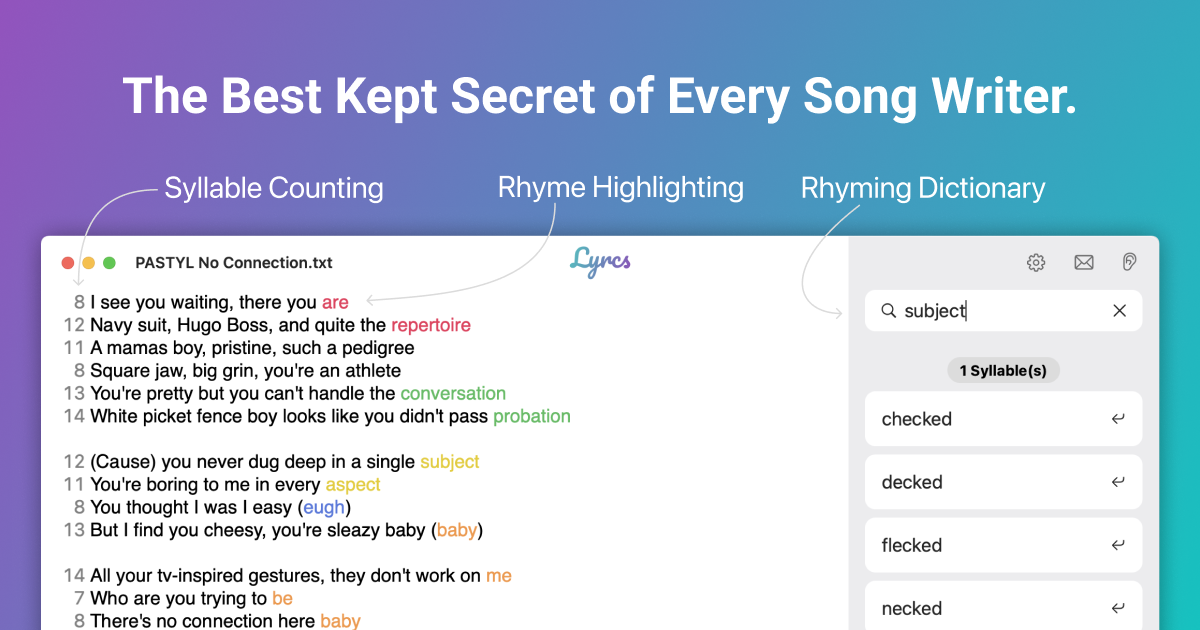
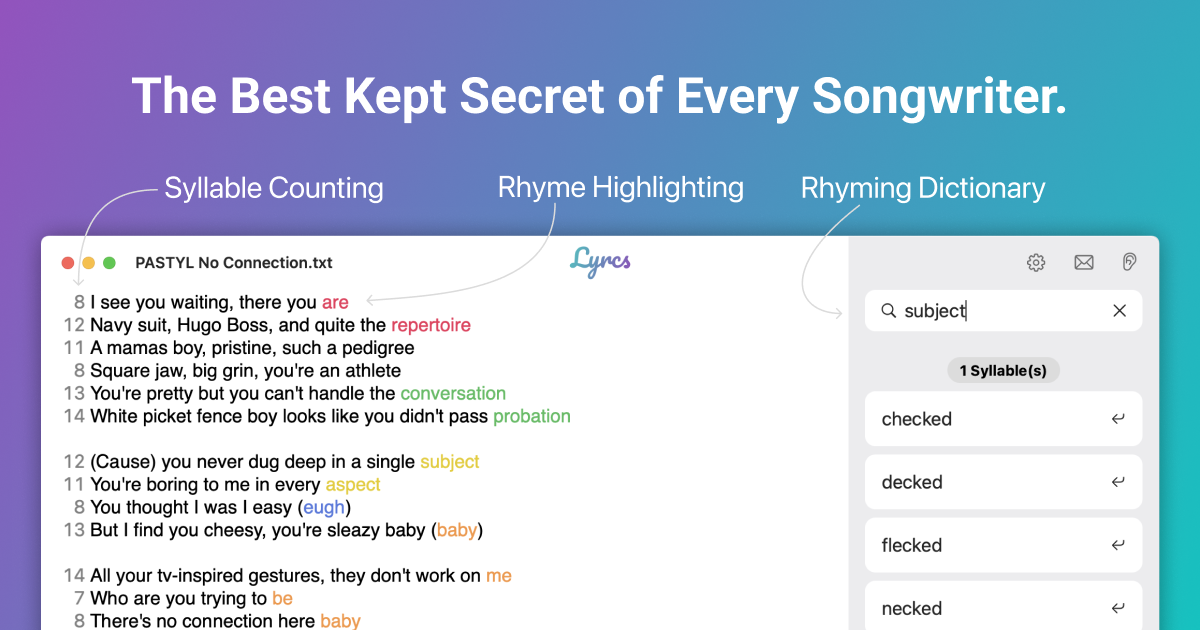
Deploying to gh-pages from @ LyrcsOrg/Website@d6cb28055370fa47f5e272d4bad84ce7e17eed30 🚀

Changed region(s): [[0.0925, 0.1206, 0.8942, 0.2111]]

diff --git a/assets/index.e5c1f528.js b/assets/index.e5c1f528.js
@@ -1,0 +1,1 @@
+import{o as e,c as s,t as i,P as F,a as j,b as A,r as P,d as B,e as m,f as t,g as c,w as f,F as p,h as y,i as b,j as x,T as X,k as J,l as C,m as R,n as S,p as M,q as Z,s as tt,u as et,v as st,x as ot,y as nt,z as at,A as rt,B as it,C as lt,D as ct,E as L,G as dt,H as ht,I as k,J as T,K as ut,L as pt,M as mt}from"./vendor.ebcf2ea9.js";const gt=function(){const d=document.createElement("link").relList;if(d&&d.supports&&d.supports("modulepreload"))return;for(const o of document.querySelectorAll('link[rel="modulepreload"]'))a(o);new MutationObserver(o=>{for(const l of o)if(l.type==="childList")for(const h of l.addedNodes)h.tagName==="LINK"&&h.rel==="modulepreload"&&a(h)}).observe(document,{childList:!0,subtree:!0});function r(o){const l={};return o.integrity&&(l.integrity=o.integrity),o.referrerpolicy&&(l.referrerPolicy=o.referrerpolicy),o.crossorigin==="use-credentials"?l.credentials="include":o.crossorigin==="anonymous"?l.credentials="omit":l.credentials="same-origin",l}function a(o){if(o.ep)return;o.ep=!0;const l=r(o);fetch(o.href,l)}};gt();var g=(u,d)=>{const r=u.__vccOpts||u;for(const[a,o]of d)r[a]=o;return r};const _t={props:{title:String,href:String}},yt=["href"];function xt(u,d,r,a,o,l){return e(),s("a",{href:r.href,target:"about:_blank",class:"inline-flex items-center px-4 py-2 border border-transparent text-base font-medium rounded-md text-app-primary bg-white hover:bg-gray-200"},i(r.title),9,yt)}var ft=g(_t,[["render",xt]]),I="/assets/logo.aff1c9ba.svg";const vt={inject:["konstantAppStoreURL"],components:{Popover:F,PopoverButton:j,PopoverPanel:A,MenuIcon:P,XIcon:B,ButtonPrimary:ft},data(){return{navigation:[],cta:"Download"}}},bt={class:"bg-gray-50"},$t={class:"relative"},wt=t("div",{class:"absolute inset-y-0 h-full w-full bg-gradient-to-r from-app-primary to-app-secondary","aria-hidden":"true"},null,-1),kt={class:"relative py-6"},St={class:"max-w-7xl mx-auto px-4 sm:px-6"},Lt={class:"relative flex items-center justify-between sm:h-10 md:justify-center","aria-label":"Global"},Ct={class:"flex items-center flex-1 md:absolute md:inset-y-0 md:left-0"},Mt={class:"flex items-center justify-between w-full md:w-auto"},Pt=t("a",{href:"#"},[t("span",{class:"sr-only"},"Lyrcs"),t("img",{class:"h-8 w-auto sm:h-10",src:I,alt:"Logo"})],-1),Rt={class:"-mr-2 flex items-center md:hidden"},Tt=t("span",{class:"sr-only"},"Open main menu",-1),Ft={class:"hidden md:flex md:space-x-10"},jt={class:"hidden md:absolute md:flex md:items-center md:justify-end md:inset-y-0 md:right-0"},At={class:"rounded-lg shadow-md bg-white ring-1 ring-black ring-opacity-5 overflow-hidden"},Bt={class:"px-5 pt-4 flex items-center justify-between"},It=t("div",null,[t("img",{class:"h-8 w-auto",src:I,alt:"Logo"})],-1),Nt={class:"-mr-2"},Dt=t("span",{class:"sr-only"},"Close main menu",-1),qt={class:"px-2 pt-2 pb-3 space-y-1"},Kt=["href"];function zt(u,d,r,a,o,l){const h=m("MenuIcon"),n=m("PopoverButton"),v=m("router-link"),G=m("ButtonPrimary"),Y=m("XIcon"),Q=m("PopoverPanel"),V=m("Popover");return e(),s("div",bt,[t("div",$t,[wt,t("div",kt,[c(V,null,{default:f(()=>[t("div",St,[t("nav",Lt,[t("div",Ct,[t("div",Mt,[Pt,t("div",Rt,[c(n,{class:"bg-gray-50 rounded-md p-2 inline-flex items-center justify-center text-gray-400 hover:text-gray-500 hover:bg-gray-100 focus:outline-none focus:ring-2 focus:ring-inset focus:ring-indigo-500"},{default:f(()=>[Tt,c(h,{class:"h-6 w-6","aria-hidden":"true"})]),_:1})])])]),t("div",Ft,[(e(!0),s(p,null,y(o.navigation,$=>(e(),b(v,{key:$.name,to:$.href,class:"font-medium text-gray-100 hover:text-gray-300"},{default:f(()=>[x(i($.name),1)]),_:2},1032,["to"]))),128))]),t("div",jt,[c(G,{title:"Download",href:this.konstantAppStoreURL},null,8,["href"])])])]),c(X,{"enter-active-class":"duration-150 ease-out","enter-from-class":"opacity-0 scale-95","enter-to-class":"opacity-100 scale-100","leave-active-class":"duration-100 ease-in","leave-from-class":"opacity-100 scale-100","leave-to-class":"opacity-0 scale-95"},{default:f(()=>[c(Q,{focus:"",class:"absolute z-10 top-0 inset-x-0 p-2 transition transform origin-top-right md:hidden"},{default:f(()=>[t("div",At,[t("div",Bt,[It,t("div",Nt,[c(n,{class:"bg-white rounded-md p-2 inline-flex items-center justify-center text-gray-400 hover:text-gray-500 hover:bg-gray-100 focus:outline-none focus:ring-2 focus:ring-inset focus:ring-indigo-500"},{default:f(()=>[Dt,c(Y,{class:"h-6 w-6","aria-hidden":"true"})]),_:1})])]),t("div",qt,[(e(!0),s(p,null,y(o.navigation,$=>(e(),b(v,{key:$.name,to:$.href,class:"block px-3 py-2 rounded-md text-base font-medium text-gray-700 hover:text-gray-900 hover:bg-gray-50"},{default:f(()=>[x(i($.name),1)]),_:2},1032,["to"]))),128))]),t("a",{href:this.konstantAppStoreURL,target:"about:_blank",class:"block w-full px-5 py-3 text-center font-medium text-indigo-600 bg-gray-50 hover:bg-gray-100 hover:text-indigo-700"},i(o.cta),9,Kt)])]),_:1})]),_:1})]),_:1})])])])}var Ot=g(vt,[["render",zt]]);const Ht={inject:["konstantRouteContact","konstantNavigationSavings","konstantRouteKeyboardShortcuts","konstantRouteFAQ","konstantRoutePrivacy","konstantRoutePressKit"],data(){return{navigation:{research:[{name:"Savings",href:this.konstantNavigationSavings}],support:[{name:"FAQ",href:this.konstantRouteFAQ},{name:"Keyboard Shortcuts",href:this.konstantRouteKeyboardShortcuts},{name:"Contact Us",href:this.konstantRouteContact}],marketing:[{name:"Press Kit",href:this.konstantRoutePressKit}],legal:[{name:"Privacy",href:this.konstantRoutePrivacy}],social:[{name:"Twitter",href:"https://twitter.com/LyrcsApp",icon:J({render:()=>R("svg",{fill:"currentColor",viewBox:"0 0 24 24"},[R("path",{d:"M8.29 20.251c7.547 0 11.675-6.253 11.675-11.675 0-.178 0-.355-.012-.53A8.348 8.348 0 0022 5.92a8.19 8.19 0 01-2.357.646 4.118 4.118 0 001.804-2.27 8.224 8.224 0 01-2.605.996 4.107 4.107 0 00-6.993 3.743 11.65 11.65 0 01-8.457-4.287 4.106 4.106 0 001.27 5.477A4.072 4.072 0 012.8 9.713v.052a4.105 4.105 0 003.292 4.022 4.095 4.095 0 01-1.853.07 4.108 4.108 0 003.834 2.85A8.233 8.233 0 012 18.407a11.616 11.616 0 006.29 1.84"})])})}]}}}},Wt={class:"bg-gray-800 mt-12","aria-labelledby":"footer-heading"},Et=t("h2",{id:"footer-heading",class:"sr-only"},"Footer",-1),Ut={class:"max-w-7xl mx-auto py-12 px-4 sm:px-6 lg:py-16 lg:px-8"},Gt={class:"xl:grid xl:grid-cols-3 xl:gap-8"},Yt={class:"grid grid-cols-2 gap-8 xl:col-span-2"},Qt={class:"md:grid md:grid-cols-2 md:gap-8"},Vt=t("h3",{class:"text-sm font-semibold text-gray-400 tracking-wider uppercase"},"Research",-1),Xt={role:"list",class:"mt-4 space-y-4"},Jt={class:"mt-12 md:mt-0"},Zt=t("h3",{class:"text-sm font-semibold text-gray-400 tracking-wider uppercase"},"Support",-1),te={role:"list",class:"mt-4 space-y-4"},ee={class:"md:grid md:grid-cols-2 md:gap-8"},se=t("h3",{class:"text-sm font-semibold text-gray-400 tracking-wider uppercase"},"Marketing",-1),oe={role:"list",class:"mt-4 space-y-4"},ne={class:"mt-12 md:mt-0"},ae=t("h3",{class:"text-sm font-semibold text-gray-400 tracking-wider uppercase"},"Legal",-1),re={role:"list",class:"mt-4 space-y-4"},ie={class:"mt-8 xl:mt-0"},le=t("h3",{class:"text-sm font-semibold text-gray-400 tracking-wider uppercase"},"Stay up to date",-1),ce=t("p",{class:"my-4 text-base text-gray-300"},"\u{1F48C} Get notified about new features and updates.",-1),de={class:"mt-8 border-t border-gray-700 pt-8 md:flex md:items-center md:justify-between"},he={class:"flex space-x-6 md:order-2"},ue=["href"],pe={class:"sr-only"},me={class:"mt-8 text-base text-gray-400 md:mt-0 md:order-1"};function ge(u,d,r,a,o,l){const h=m("router-link");return e(),s("footer",Wt,[Et,t("div",Ut,[t("div",Gt,[t("div",Yt,[t("div",Qt,[t("div",null,[Vt,t("ul",Xt,[(e(!0),s(p,null,y(o.navigation.research,n=>(e(),s("li",{key:n.name},[c(h,{to:n.href,class:"text-base text-gray-300 hover:text-white"},{default:f(()=>[x(i(n.name),1)]),_:2},1032,["to"])]))),128))])]),t("div",Jt,[Zt,t("ul",te,[(e(!0),s(p,null,y(o.navigation.support,n=>(e(),s("li",{key:n.name},[c(h,{to:n.href,class:"text-base text-gray-300 hover:text-white"},{default:f(()=>[x(i(n.name),1)]),_:2},1032,["to"])]))),128))])])]),t("div",ee,[t("div",null,[se,t("ul",oe,[(e(!0),s(p,null,y(o.navigation.marketing,n=>(e(),s("li",{key:n.name},[c(h,{to:n.href,class:"text-base text-gray-300 hover:text-white"},{default:f(()=>[x(i(n.name),1)]),_:2},1032,["to"])]))),128))])]),t("div",ne,[ae,t("ul",re,[(e(!0),s(p,null,y(o.navigation.legal,n=>(e(),s("li",{key:n.name},[c(h,{to:n.href,class:"text-base text-gray-300 hover:text-white"},{default:f(()=>[x(i(n.name),1)]),_:2},1032,["to"])]))),128))])])])]),t("div",ie,[le,ce,(e(),b(C("script"),{async:"","data-uid":"9f57de5059",src:"https://colossal-knitter-8833.ck.page/9f57de5059/index.js"}))])]),t("div",de,[t("div",he,[(e(!0),s(p,null,y(o.navigation.social,n=>(e(),s("a",{key:n.name,href:n.href,class:"text-gray-400 hover:text-gray-300"},[t("span",pe,i(n.name),1),(e(),b(C(n.icon),{class:"h-6 w-6","aria-hidden":"true"}))],8,ue))),128))]),t("p",me,"\xA9 "+i(new Date().getFullYear())+" Lyrcs. All rights reserved.",1)])])])}var _e=g(Ht,[["render",ge]]);const ye={components:{Navigation:Ot,Footer:_e},watch:{$route:{immediate:!0,handler(u,d){document.title=u.meta.title+" - Lyrcs"||"Lyrcs"}}},setup(){return{}}},xe={class:"flex flex-col h-screen"},fe={class:"flex-grow"};function ve(u,d,r,a,o,l){const h=m("Navigation"),n=m("router-view"),v=m("Footer");return e(),s("div",xe,[c(h),t("div",fe,[c(n)]),c(v)])}var be=g(ye,[["render",ve]]);var N="/assets/hero.6c31db40.png",$e="/assets/live.d40c6c98.svg",we="/assets/logic.24c8d676.svg",ke="/assets/tools.ef0f673c.svg",Se="/assets/fl.b18e17b7.svg",Le="/assets/garage.ebbdac29.svg";const Ce={title:"The Best Kept Secret<br>of Every Songwriter",subtitle:"Lyrcs is the single tool that empowers you to do what you do best - tell stories through music. Made for songwriters, by songwriters.",cta:"Download",footnote:"Work side by side with all your favorite tools and more"},Me={components:{Popover:F,PopoverButton:j,PopoverPanel:A,MenuIcon:P,XIcon:B},setup(){return{header:Ce}}},Pe={class:"bg-gray-50"},Re={class:"relative overflow-hidden"},Te=t("div",{class:"absolute inset-y-0 h-full w-full bg-gradient-to-r from-app-primary to-app-secondary","aria-hidden":"true"},null,-1),Fe={class:"relative pb-16 sm:pb-24"},je={class:"mt-16 mx-auto max-w-7xl px-4 sm:mt-24 sm:px-6"},Ae={class:"text-center"},Be={class:"text-4xl tracking-tight font-extrabold text-white sm:text-5xl md:text-6xl"},Ie=["innerHTML"],Ne={class:"mt-3 max-w-md mx-auto text-base text-white sm:text-lg md:mt-5 md:text-xl md:max-w-3xl"},De=S('<div class="relative"><div class="absolute inset-0 flex flex-col" aria-hidden="true"><div class="flex-1"></div><div class="flex-1 w-full bg-gray-800"></div></div><div class="max-w-7xl mx-auto px-4 sm:px-6"><img class="relative rounded-lg" src="'+N+'" alt="App screenshot"></div></div>',1),qe={class:"bg-gray-800"},Ke={class:"max-w-7xl mx-auto py-16 px-4 sm:py-24 sm:px-6 lg:px-8"},ze={class:"text-center text-gray-400 text-sm font-semibold uppercase tracking-wide"},Oe=S('<div class="mt-8 grid grid-cols-2 gap-8 md:grid-cols-6 lg:grid-cols-5 text-gray-400"><figure class="col-span-1 flex justify-center md:col-span-2 lg:col-span-1 items-center space-x-2"><img class="h-16" src="'+$e+'" alt="Ableton Live"><figcaption>Ableton Live</figcaption></figure><figure class="col-span-1 flex justify-center md:col-span-2 lg:col-span-1 items-center space-x-2"><img class="h-16" src="'+we+'" alt="Logic Pro"><figcaption>Logic Pro</figcaption></figure><figure class="col-span-1 flex justify-center md:col-span-2 lg:col-span-1 items-center space-x-2"><img class="h-16" src="'+ke+'" alt="Pro Tools"><figcaption>Pro Tools</figcaption></figure><figure class="col-span-1 flex justify-center md:col-span-3 lg:col-span-1 items-center space-x-2"><img class="h-16" src="'+Se+'" alt="FL Studio"><figcaption>FL Studio</figcaption></figure><figure class="col-span-2 flex justify-center md:col-span-3 lg:col-span-1 items-center space-x-2"><img class="h-16" src="'+Le+'" alt="GarageBand"><figcaption>GarageBand</figcaption></figure></div>',1);function He(u,d,r,a,o,l){return e(),s("div",Pe,[t("div",Re,[Te,t("div",Fe,[t("div",je,[t("div",Ae,[t("h1",Be,[t("span",{class:"block",innerHTML:a.header.title},null,8,Ie)]),t("p",Ne,i(a.header.subtitle),1)])])]),De]),t("div",qe,[t("div",Ke,[t("h2",ze,i(a.header.footnote),1),Oe])])])}var We=g(Me,[["render",He]]),Ee="/assets/rhymes.caf8c5fc.png",Ue="/assets/syllables.59065f74.png",Ge="/assets/design.fd892fbf.png",Ye="/assets/spelling.3ed68d51.png",Qe="/assets/highlight.24bedcda.png";const Ve={title:"Why You'll Love Lyrcs",subtitle:"All the essential tools you need to write the perfect story."},Xe=[{title:"Rhyming Dictionary",subtitle:"Gone are the days of opening your browser to check rhymezone.",image:Ee,details:[{name:"No Wait Times",description:"Results are given in an instant.",icon:Z},{name:"Grouping",description:"Group the results how you like them; by syllables, letters or none at all.",icon:P},{name:"Insert or Copy",description:"Insert results directly at your cursor or copy and paste to the perfect spot.",icon:tt}]},{title:"Syllable Counting",subtitle:"Looking at your fingers to count syllables is now a thing of the past.",image:Ue,details:[{name:"Per Line",description:"View the exact number of syllables per line, making it easy to pair up verses.",icon:et},{name:"Per Selection",description:"Right click on selected text to view its syllable count.",icon:st},{name:"Override",description:"If you pronounce a word differently or Lyrcs got it wrong (please let us know), right click to override the count.",icon:ot}]},{title:"Rhyme Highlighting",subtitle:"No need to keep track of which words rhyme at the end of a line, Lyrcs will do that for you.",image:Qe,details:[{name:"Real-time",description:"No pushing a button to turn it on, rhymes are calculated blazingly fast in the background as you type.",icon:nt},{name:"Color Blindness",description:"The 20 most distinct colors are used to improve accessibility. If you have any trouble consider turning on macOS Color Filters.",icon:at},{name:"Identical Words",description:"Sometimes when life gives you orange, you just have to orange again. Toggle the option to highlight identical words.",icon:rt}]},{title:"Fine Design",subtitle:"Working late at night? Eyesight isn't what it used to be? Wish you could work without distractions? You're in good hands.",image:Ge,details:[{name:"Minimalistic UI",description:"Lyrcs is designed to have as little distractions as possible, leaving you to focus on your content.",icon:it},{name:"Dark Mode Support",description:"Get blinded by the brilliant work you create, not by white pixels.",icon:lt},{name:"Font Adjustable",description:"Leave your glasses at home grandma, use CMD -, CMD + or CMD 0 to adjust font.",icon:ct}]},{title:"Native macOS",subtitle:"Everything you come to expect from a native macOS app is included.",image:Ye,details:[{name:"Spelling and Grammar",description:"We didn't win any spelling bees as kids and if you didn't either, Lyrcs will check it all for you.",icon:L},{name:"Undo Redo",description:"What kind of writing tool would Lyrcs be without this life saving feature?",icon:dt},{name:"Sharing",description:"Lyrics finished but needing to run it past the partner? File > Share",icon:ht}]}],Je={setup(){return{header:Ve,features:Xe}}},Ze={class:"py-16 bg-white overflow-hidden lg:py-24"},ts={class:"relative max-w-xl mx-auto px-4 sm:px-6 lg:px-8 lg:max-w-7xl"},es={class:"relative"},ss={class:"text-center text-3xl leading-8 font-extrabold tracking-tight text-gray-900 sm:text-4xl"},os={class:"mt-4 max-w-3xl mx-auto text-center text-xl text-gray-500"},ns={class:"lg:grid lg:grid-flow-row-dense lg:grid-cols-2 lg:gap-8 lg:items-center"},as={class:"text-2xl font-extrabold text-gray-900 tracking-tight sm:text-3xl"},rs={class:"mt-3 text-lg text-gray-500"},is={class:"mt-10 space-y-10"},ls={class:"absolute flex items-center justify-center h-10 w-10 rounded-md bg-app-primary text-white"},cs={class:"ml-16 text-lg leading-6 font-medium text-gray-900"},ds={class:"mt-2 ml-16 text-base text-gray-500"},hs=["src"];function us(u,d,r,a,o,l){return e(),s("div",Ze,[t("div",ts,[t("div",es,[t("h2",ss,i(a.header.title),1),t("p",os,i(a.header.subtitle),1)]),(e(!0),s(p,null,y(a.features,(h,n)=>(e(),s("div",{key:h.title,class:"relative mt-12 sm:mt-16 lg:mt-24"},[t("div",ns,[t("div",{class:M({"lg:col-start-1":n%2!==0,"lg:col-start-2":n%2===0})},[t("h3",as,i(h.title),1),t("p",rs,i(h.subtitle),1),t("dl",is,[(e(!0),s(p,null,y(h.details,v=>(e(),s("div",{key:v.name,class:"relative"},[t("dt",null,[t("div",ls,[(e(),b(C(v.icon),{class:"h-6 w-6","aria-hidden":"true"}))]),t("p",cs,i(v.name),1)]),t("dd",ds,i(v.description),1)]))),128))])],2),t("div",{class:M(["mt-10 -mx-4 relative lg:mt-0",{"lg:col-start-1":n%2===0,"lg:col-start-2":n%2!==0}])},[t("img",{class:"relative mx-auto",width:"490",src:h.image,alt:""},null,8,hs)],2)])]))),128))])])}var ps=g(Je,[["render",us]]);const ms={title:"If That Wasn't Enough",subtitle:"Here are a few more things we think you'll love."},gs={inject:["konstantRouteKeyboardShortcuts"],components:{CheckIcon:L},data(){return{header:ms,features:[{name:"Keyboard Shortcuts",description:`View them <a href='#${this.konstantRouteKeyboardShortcuts}' class='underline'>here</a>.`},{name:"Ad-Free",description:"You won't find a single one."},{name:"Plain Text Files",description:"No sneaky proprietary files to lock you in."},{name:"Constant Updates",description:"Lyrcs is always receiving new features, enhancements or fixes."},{name:"Work Offline",description:"No need to be connected to the internet to use."},{name:"Appearance Override",description:"Choose between dark or light mode, or match your system."},{name:"Distractionless Options",description:"When you want to really focus, hide the syllable and rhyme panels."},{name:"Font Choices",description:"Prefer to write in Times New Roman? Lyrcs won't hold you back."}]}}},_s={class:"bg-white"},ys={class:"max-w-7xl mx-auto py-16 px-4 sm:px-6 lg:py-24 lg:px-8"},xs={class:"max-w-3xl mx-auto text-center"},fs={class:"text-3xl font-extrabold text-gray-900"},vs={class:"mt-4 text-lg text-gray-500"},bs={class:"mt-12 space-y-10 sm:space-y-0 sm:grid sm:grid-cols-2 sm:gap-x-6 sm:gap-y-12 lg:grid-cols-4 lg:gap-x-8"},$s={class:"ml-9 text-lg leading-6 font-medium text-gray-900"},ws=["innerHTML"];function ks(u,d,r,a,o,l){const h=m("CheckIcon");return e(),s("div",_s,[t("div",ys,[t("div",xs,[t("h2",fs,i(o.header.title),1),t("p",vs,i(o.header.subtitle),1)]),t("dl",bs,[(e(!0),s(p,null,y(o.features,n=>(e(),s("div",{key:n.name,class:"relative"},[t("dt",null,[c(h,{class:"absolute h-6 w-6 text-green-500","aria-hidden":"true"}),t("p",$s,i(n.name),1)]),t("dd",{class:"mt-2 ml-9 text-base text-gray-500",innerHTML:n.description},null,8,ws)]))),128))])])])}var Ss=g(gs,[["render",ks]]);const Ls={inject:["konstantAppStoreURL"]},Cs={class:"bg-white"},Ms={class:"max-w-7xl mx-auto py-16 px-4 sm:px-6 lg:px-8"},Ps={class:"bg-gradient-to-r from-app-primary to-app-secondary rounded-lg shadow-xl overflow-hidden lg:grid lg:grid-cols-2 lg:gap-4"},Rs={class:"pt-10 pb-12 px-6 sm:pt-16 sm:px-16 lg:py-16 lg:pr-0 xl:py-20 xl:px-20"},Ts={class:"lg:self-center"},Fs=t("h2",{class:"text-3xl font-extrabold text-white sm:text-4xl"},[t("span",{class:"block"},"Like what you see?"),t("span",{class:"block"},"Download Lyrcs today!")],-1),js=t("p",{class:"mt-4 text-lg leading-6 text-gray-100"},"If you're not 100% satisfied, we don't offer refunds because Lyrcs is free. What have you got to lose? Certainly not money.",-1),As=["href"],Bs=t("div",{class:"-mt-6 aspect-w-5 aspect-h-3 md:aspect-w-2 md:aspect-h-1"},[t("img",{class:"transform translate-x-6 translate-y-6 rounded-md object-cover object-left-top sm:translate-x-16 lg:translate-y-20",src:N,alt:"App screenshot"})],-1);function Is(u,d,r,a,o,l){return e(),s("div",Cs,[t("div",Ms,[t("div",Ps,[t("div",Rs,[t("div",Ts,[Fs,js,t("a",{href:this.konstantAppStoreURL,target:"about:_blank",class:"mt-8 bg-white border border-transparent rounded-md shadow px-5 py-3 inline-flex items-center text-base font-medium text-app-primary hover:bg-gray-200"},"Download",8,As)])]),Bs])])])}var D=g(Ls,[["render",Is]]);const Ns={},Ds={class:"bg-white"},qs=S('<div class="max-w-7xl mx-auto py-16 px-4 sm:py-24 sm:px-6 lg:px-8"><div class="text-center"><h2 class="text-base font-semibold text-indigo-600 tracking-wide uppercase">Coming Soon</h2><p class="mt-1 text-4xl font-extrabold text-gray-900 sm:text-5xl sm:tracking-tight lg:text-6xl">Mobile Apps.</p><p class="max-w-xl mt-5 mx-auto text-xl text-gray-500">Write your lyrics on the go.</p></div></div>',1),Ks=[qs];function zs(u,d){return e(),s("div",Ds,Ks)}var Os=g(Ns,[["render",zs]]);const Hs={inject:["konstantStatsMinutes","konstantStatsMemory","konstantStatsRelationships"],props:{title:String,subtitle:String}},Ws={class:"bg-white pt-12 sm:pt-16"},Es={class:"max-w-7xl mx-auto px-4 sm:px-6 lg:px-8"},Us={class:"max-w-4xl mx-auto text-center"},Gs=["innerHTML"],Ys=["innerHTML"],Qs={class:"mt-10 pb-12 bg-white sm:pb-16"},Vs={class:"relative"},Xs=t("div",{class:"absolute inset-0 h-1/2 bg-white"},null,-1),Js={class:"relative max-w-7xl mx-auto px-4 sm:px-6 lg:px-8"},Zs={class:"max-w-4xl mx-auto"},to={class:"rounded-lg bg-white drop-shadow-[0_0_8px_rgba(0,0,0,0.25)] sm:grid sm:grid-cols-3"},eo={class:"flex flex-col border-b border-gray-100 p-6 text-center sm:border-0 sm:border-r"},so=t("dt",{class:"order-2 mt-2 text-lg leading-6 font-medium text-gray-500"},"Minutes",-1),oo={class:"order-1 text-5xl font-extrabold text-indigo-600"},no={class:"flex flex-col border-t border-b border-gray-100 p-6 text-center sm:border-0 sm:border-l sm:border-r"},ao=t("dt",{class:"order-2 mt-2 text-lg leading-6 font-medium text-gray-500"},"Memory",-1),ro={class:"order-1 text-5xl font-extrabold text-indigo-600"},io={class:"flex flex-col border-t border-gray-100 p-6 text-center sm:border-0 sm:border-l"},lo=t("dt",{class:"order-2 mt-2 text-lg leading-6 font-medium text-gray-500"},"Relationships",-1),co={class:"order-1 text-5xl font-extrabold text-indigo-600"};function ho(u,d,r,a,o,l){return e(),s("div",Ws,[t("div",Es,[t("div",Us,[t("h2",{class:"text-3xl font-extrabold text-gray-900 sm:text-4xl",innerHTML:r.title},null,8,Gs),t("p",{class:"mt-3 text-xl text-gray-500 sm:mt-4",innerHTML:r.subtitle},null,8,Ys)])]),t("div",Qs,[t("div",Vs,[Xs,t("div",Js,[t("div",Zs,[t("dl",to,[t("div",eo,[so,t("dd",oo,i(l.konstantStatsMinutes),1)]),t("div",no,[ao,t("dd",ro,i(l.konstantStatsMemory),1)]),t("div",io,[lo,t("dd",co,i(l.konstantStatsRelationships),1)])])])])])])])}var uo=g(Hs,[["render",ho]]);const po={setup(u){return(d,r)=>(e(),s(p,null,[c(We),c(ps),c(uo,{title:"What could Lyrcs save you per album?",subtitle:"<a href='#/savings' class='underline'>Check out how we came up with the figures</a>."}),c(Ss),c(Os),c(D)],64))}},mo={props:{title:String}},go={class:"mb-12 bg-gradient-to-r from-app-primary to-app-secondary"},_o={class:"max-w-7xl mx-auto py-12 px-4 sm:py-16 sm:px-6 lg:px-8"},yo={class:"max-w-3xl mx-auto divide-y-2 divide-gray-200"},xo={class:"text-center text-4xl font-extrabold text-white sm:text-5xl"};function fo(u,d,r,a,o,l){return e(),s("div",go,[t("div",_o,[t("div",yo,[t("h2",xo,i(r.title),1)])])])}var w=g(mo,[["render",fo]]);const vo={inject:["konstantStatsMinutes","konstantStatsMemory","konstantStatsRelationships"]},bo={class:"bg-white pt-12 sm:pt-16"},$o={class:"pb-12 bg-white sm:pb-16"},wo={class:"relative"},ko=t("div",{class:"absolute inset-0 h-1/2 bg-white"},null,-1),So={class:"relative max-w-7xl mx-auto px-4 sm:px-6 lg:px-8"},Lo={class:"max-w-4xl mx-auto"},Co={class:"rounded-lg bg-white drop-shadow-[0_0_8px_rgba(0,0,0,0.25)] sm:grid sm:grid-cols-3"},Mo={class:"flex flex-col border-b border-gray-100 p-6 text-center sm:border-0 sm:border-r"},Po=t("dt",{class:"order-2 mt-2 text-lg leading-6 font-medium text-gray-500"},"Minutes",-1),Ro={class:"order-1 text-5xl font-extrabold text-indigo-600"},To={class:"flex flex-col border-t border-b border-gray-100 p-6 text-center sm:border-0 sm:border-l sm:border-r"},Fo=t("dt",{class:"order-2 mt-2 text-lg leading-6 font-medium text-gray-500"},"Memory",-1),jo={class:"order-1 text-5xl font-extrabold text-indigo-600"},Ao={class:"flex flex-col border-t border-gray-100 p-6 text-center sm:border-0 sm:border-l"},Bo=t("dt",{class:"order-2 mt-2 text-lg leading-6 font-medium text-gray-500"},"Relationships",-1),Io={class:"order-1 text-5xl font-extrabold text-indigo-600"};function No(u,d,r,a,o,l){return e(),s("div",bo,[t("div",$o,[t("div",wo,[ko,t("div",So,[t("div",Lo,[t("dl",Co,[t("div",Mo,[Po,t("dd",Ro,i(l.konstantStatsMinutes),1)]),t("div",To,[Fo,t("dd",jo,i(l.konstantStatsMemory),1)]),t("div",Ao,[Bo,t("dd",Io,i(l.konstantStatsRelationships),1)])])])])])])])}var Do=g(vo,[["render",No]]);const qo={class:"relative pb-16 bg-white overflow-hidden"},Ko={class:"max-w-7xl mx-auto px-4 sm:px-6 lg:px-8"},zo={class:"mt-6 prose prose-indigo prose-lg text-gray-500 mx-auto"},Oo=S('<p> Every song is different so every usage will vary but here&#39;s a common scenario that leads to the results above. We&#39;ll be looking at the song <a href="https://open.spotify.com/track/4CNilDDYSlQ5KMP4OK8XmT?si=eeab09c134df4157" class="underline">No Connection - PASTYL</a> and extrapolating it to an album of 12 songs. It&#39;s your typical pop banger with an ABC-ABC-D-C structure coming in at 4:03 minutes and 355 words. </p><p>No Connection contains the following sets of 11 near or perfect rhymes.</p><div class="columns-2"><ul><li class="mt-0">subject, aspect</li><li>easy, baby</li><li>me, be, baby</li><li>me, see</li><li>clear, here</li><li>are, guitar</li><li>easy, baby</li><li>hard, car</li></ul></div><h2>Minutes</h2><p>When coming up with rhymes we&#39;ll often use online rhyming dictionaries and when counting syllables we&#39;ll often use our fingers. The problem with these approaches is not only do they take you away from your work but they take time to do. Since not every rhyme search and syllable count takes the same amount of time we&#39;ll need to come up with some values to use.</p><p>We&#39;ve assumed the following:</p><ul><li><strong>10 seconds</strong> for the act of opening a browser and navigating to a rhyme dictionary </li><li><strong>2 seconds</strong> waiting for a rhyme dictionary to return a rhyme result </li><li><strong>5 seconds</strong> copying and pasting the result into your lyric editor </li><li><strong>2 seconds</strong> counting a 3-syllable word </li></ul>',7),Ho=x(" Combining this together becomes "),Wo=x(": "),Eo=S("<ul><li><strong>10 seconds</strong> to open the browser and navigate to a rhyme dictionary </li><li><strong>22 seconds</strong> to individually return 11 rhymes of 2 seconds each </li><li><strong>55 seconds</strong> to copy and paste 11 rhyme results, taking 5 seconds each </li><li><strong>100 seconds</strong> to count 50, 3-syllable words </li><li><strong>2,244 seconds</strong> when extrapolating the above to 12 songs in an album </li></ul><h2>Memory</h2><p>When accessing a website our browser downloads data and then presents that data as a webpage. Different rhyme dictionary search results will download different amounts of data.</p><p>The following assumption will be made:</p><ul><li><strong>1 MB</strong> downloaded for the rhyme dictionary home page </li><li><strong>1.5 MB</strong> downloaded for each rhyme result </li></ul>",5),Uo=x(" Combining this together becomes "),Go=x(": "),Yo=S("<ul><li><strong>1 MB</strong> to open the browser and navigate to a rhyme dictionary </li><li><strong>16.5 MB</strong> to individually return 11 rhyme results of 1.5 MB each </li><li><strong>210 MB</strong> when extrapolating the above to 12 songs in an album </li></ul><h2>Relationships</h2><p>Perhaps the most important part; how does Lyrcs save relationships? This is much harder to come up with an assumption for but here are some examples:</p><ul><li> Your top line singer gets frustrated with how long it takes you to come up with new lyrics. They don&#39;t want to hear that your slow internet connection is what&#39;s to blame and decides to never work with you again. <strong>Lyrcs could have saved the relationship with its instant rhyme results</strong>. </li><li> You and your band book a remote cabin for songwriting but only once you arrive do you find out there&#39;s no internet available. It was your job to check if the place had internet and now everyone is voting to kick you out because of how long it&#39;s taking you figure out rhymes. <strong>Lyrcs could have saved the relationships with its offline rhyme results</strong>. </li><li> You and your sibling have put all your rivalry in the past and are looking forward to collaborating on a new duo act. Trouble strikes when you argue that <i>antidisestablishmentarianism</i> is 12 syllables and they argue 11. The duo is short lived and your song never lives to see the light of day. <strong>Lyrcs could have saved the relationship with its perfect syllable counting</strong>. </li></ul><h2>Conclusion</h2><p>Lyrcs is a time, memory and relationship saver. You work too hard on your art to let it be impacted by slow tools, unreliable connections and misunderstandings between partners.</p><p>Let Lyrcs save you.</p>",7),Qo={inject:["konstantStatsMinutes","konstantStatsMemory"]},Vo=Object.assign(Qo,{setup(u){return(d,r)=>(e(),s(p,null,[c(w,{title:"Savings"}),c(Do),t("div",qo,[t("div",Ko,[t("div",zo,[Oo,t("p",null,[Ho,t("strong",null,i(d.konstantStatsMinutes)+" minutes",1),Wo]),Eo,t("p",null,[Uo,t("strong",null,i(d.konstantStatsMemory),1),Go]),Yo])])]),c(D)],64))}}),Xo={class:"relative pb-16 bg-white overflow-hidden"},Jo={class:"max-w-7xl mx-auto px-4 sm:px-6 lg:px-8"},Zo={class:"mt-6 prose prose-indigo prose-lg text-gray-500 mx-auto"},tn=t("p",null,"The Lyrcs app itself does not collect any personally identifiable data.",-1),en=t("p",null,"It does collect usage and crash data to improve features and address bugs using SDKs provided by Google. The privacy policy of these are located here:",-1),sn=t("ul",null,[t("li",null,[t("a",{target:"about:_blank",href:"https://firebase.google.com/policies/analytics"},"Google Analytics for Firebase")]),t("li",null,[t("a",{target:"about:_blank",href:"https://firebase.google.com/support/privacy/"},"Firebase Crashlytics")])],-1),on=x(" If you have any question, feel free to "),nn=x("contact us"),an=x(". "),rn={inject:["konstantRouteContact"]},ln=Object.assign(rn,{setup(u){return(d,r)=>{const a=m("router-link");return e(),s(p,null,[c(w,{title:"Privacy Policy"}),t("div",Xo,[t("div",Jo,[t("div",Zo,[tn,en,sn,t("p",null,[on,c(a,{to:d.konstantRouteContact},{default:f(()=>[nn]),_:1},8,["to"]),an])])])])],64)}}});var cn="/assets/title.d0a91b4e.svg",dn="/assets/rhymezone.d8037bbc.png";const hn={class:"bg-white"},un={class:"max-w-7xl mx-auto py-16 px-4 sm:px-6 lg:py-24 lg:px-8"},pn={class:"flex flex-col"},mn={class:"-my-2 overflow-x-auto sm:-mx-6 lg:-mx-8"},gn={class:"py-2 align-middle inline-block min-w-full sm:px-6 lg:px-8"},_n={class:"shadow overflow-hidden border-b border-gray-200 sm:rounded-lg"},yn={class:"min-w-full divide-y divide-gray-200"},xn=t("thead",{class:"bg-gray-50"},[t("tr",null,[t("th",{scope:"col",class:"px-6 py-3 text-left text-xs font-medium text-gray-500 uppercase tracking-wider"},"Feature"),t("th",{scope:"col",class:"px-6 py-3 text-left text-xs font-medium text-gray-500 uppercase tracking-wider"},[t("img",{class:"max-h-8",src:cn,alt:"Lyrcs"})]),t("th",{scope:"col",class:"px-6 py-3 text-left text-xs font-medium text-gray-500 uppercase tracking-wider"},[t("img",{class:"max-h-8",src:dn,alt:"Rhymezone"})])])],-1),fn={key:0,class:"px-6 py-4 whitespace-nowrap text-sm font-medium text-gray-900"},vn={key:1,class:"px-6 py-4 whitespace-nowrap text-sm text-gray-900"},bn={key:2,class:"px-6 py-4 whitespace-nowrap text-sm text-gray-500"},$n={key:3,class:"px-6 py-4 whitespace-nowrap text-sm text-gray-500"},q=[{header:"Editor",lyrcs:!0,rhymezone:!1},{name:"Insert Rhymes Directly",lyrcs:!0,rhymezone:!1},{header:"Rhyme Search",lyrcs:!0,rhymezone:!0},{name:"Offline Results",lyrcs:!0,rhymezone:!0},{name:"Result Grouping",lyrcs:!0,rhymezone:!0},{header:"Syllable Counting",lyrcs:!0,rhymezone:!1},{name:"Per Line",lyrcs:!0,rhymezone:!1},{name:"Per Selection",lyrcs:!0,rhymezone:!1},{name:"Override Syllable Count",lyrcs:!0,rhymezone:!1},{header:"UI",lyrcs:!0,rhymezone:!1},{name:"Dark Mode",lyrcs:!0,rhymezone:!1},{name:"Font Adjustable",lyrcs:!0,rhymezone:!1},{header:"Native macOS",lyrcs:!0,rhymezone:!0},{name:"Spelling and Grammer Checking",lyrcs:!0,rhymezone:!0}],wn={components:{CheckIcon:L},setup(){return{people:q}}},kn=Object.assign(wn,{setup(u){return(d,r)=>(e(),s(p,null,[c(w,{title:"Competitors"}),t("div",hn,[t("div",un,[t("div",pn,[t("div",mn,[t("div",gn,[t("div",_n,[t("table",yn,[xn,t("tbody",null,[(e(),s(p,null,y(q,(a,o)=>t("tr",{key:a,class:M(o%2===0?"bg-white":"bg-gray-50")},[typeof a.header!="undefined"?(e(),s("td",fn,i(a.header),1)):k("",!0),typeof a.name!="undefined"?(e(),s("td",vn,"- "+i(a.name),1)):k("",!0),typeof a.lyrcs!="undefined"?(e(),s("td",bn,[a.lyrcs?(e(),b(T(L),{key:0,class:"h-6 w-6 text-green-500","aria-hidden":"true"})):k("",!0)])):k("",!0),typeof a.rhymezone!="undefined"?(e(),s("td",$n,[a.rhymezone?(e(),b(T(L),{key:0,class:"h-6 w-6 text-green-500","aria-hidden":"true"})):k("",!0)])):k("",!0)],2)),64))])])])])])])])])],64))}}),Sn={props:{title:String,href:String}},Ln=["href"];function Cn(u,d,r,a,o,l){return e(),s("a",{href:r.href,class:"inline-flex items-center px-4 py-2 border border-transparent text-sm font-medium rounded-md shadow-sm text-white bg-app-primary hover:bg-app-primary-hover focus:outline-none focus:ring-2 focus:ring-offset-2 focus:ring-indigo-500"},i(r.title),9,Ln)}var Mn=g(Sn,[["render",Cn]]);const Pn={props:{title:String,href:String}},Rn=["href"];function Tn(u,d,r,a,o,l){return e(),s("a",{href:r.href,class:"inline-flex items-center px-4 py-2 border border-transparent text-sm font-medium rounded-md shadow-sm text-app-primary bg-[#E8FCFC] hover:bg-[#D1E3E3] focus:outline-none focus:ring-2 focus:ring-offset-2 focus:ring-indigo-500"},i(r.title),9,Rn)}var Fn=g(Pn,[["render",Tn]]);const jn={inject:["konstantRouteContact"],components:{ButtonSecondary:Mn,ButtonTertiary:Fn}},An={class:"bg-white min-h-full px-4 py-16 sm:px-6 sm:py-24 md:grid md:place-items-center lg:px-8"},Bn={class:"max-w-max mx-auto"},In={class:"sm:flex"},Nn=t("p",{class:"text-4xl font-extrabold text-app-primary sm:text-5xl"},"404",-1),Dn={class:"sm:ml-6"},qn=t("div",{class:"sm:border-l sm:border-gray-200 sm:pl-6"},[t("h1",{class:"text-4xl font-extrabold text-gray-900 tracking-tight sm:text-5xl"},"Page not found"),t("p",{class:"mt-1 text-base text-gray-500"},"Please check the URL in the address bar and try again.")],-1),Kn={class:"mt-10 flex space-x-3 sm:border-l sm:border-transparent sm:pl-6"};function zn(u,d,r,a,o,l){const h=m("ButtonSecondary"),n=m("ButtonTertiary");return e(),s("div",An,[t("div",Bn,[t("main",In,[Nn,t("div",Dn,[qn,t("div",Kn,[c(h,{title:"Back to Home",href:"#"}),c(n,{title:"Contact Us",href:`#${this.konstantRouteContact}`},null,8,["href"])])])])])])}var On=g(jn,[["render",zn]]);const Hn={components:{PageTitle:w}},Wn={class:"bg-white px-4 overflow-hidden sm:px-6"},En={class:"relative max-w-xl mx-auto"},Un=t("div",{class:"text-center mb-10"},[t("p",{class:"mt-4 text-lg leading-6 text-gray-500"},"Found a bug? Got an idea for a feature? Discovered the meaning of life? Feel free to send us a message about anything.")],-1),Gn=x(' hbspt.forms.create({ region: "eu1", portalId: "25600389", formId: "e5b99bd2-e563-4c7a-8c10-ea1105f864ca" }); ');function Yn(u,d,r,a,o,l){const h=m("PageTitle");return e(),s(p,null,[c(h,{title:"Contact Us"}),t("div",Wn,[t("div",En,[Un,(e(),b(C("script"),null,{default:f(()=>[Gn]),_:1}))])])],64)}var Qn=g(Hn,[["render",Yn]]);const Vn=[{question:"Toggle Rhyme Panel",answer:"\u2318 R"},{question:"Font Increase",answer:"\u2318 +"},{question:"Font Decrease",answer:"\u2318 -"},{question:"Font Reset",answer:"\u2318 0"},{question:"New Tab",answer:"\u2318 T"}],Xn={components:{PageTitle:w},setup(){return{faqs:Vn}}},Jn={class:"bg-white"},Zn={class:"max-w-7xl mx-auto px-4 divide-y divide-gray-200 sm:px-6 lg:px-8"},ta={class:"divide-y divide-gray-200"},ea={class:"text-base font-medium text-gray-900 md:col-span-5"},sa={class:"mt-2 md:mt-0 md:col-span-7"},oa={class:"text-base text-gray-500"};function na(u,d,r,a,o,l){const h=m("PageTitle");return e(),s(p,null,[c(h,{title:"Keyboard Shortcuts"}),t("div",Jn,[t("div",Zn,[t("dl",ta,[(e(!0),s(p,null,y(a.faqs,n=>(e(),s("div",{key:n.question,class:"pt-6 pb-8 md:grid md:grid-cols-12 md:gap-8"},[t("dt",ea,i(n.question),1),t("dd",sa,[t("p",oa,i(n.answer),1)])]))),128))])])])],64)}var aa=g(Xn,[["render",na]]);const ra={inject:["konstantContactForm","konstantRouteContact"],components:{PageTitle:w},data(){return{faqs:[{question:"What's the catch, how is this free?",answer:"Lyrcs doesn't call out to any APIs or require much time to maintain. Until this becomes a full time job you can expect Lyrcs to remain free \u2764\uFE0F."},{question:"Can you implement X feature?",answer:`<a href='#${this.konstantRouteContact}' class='underline'>Contact us</a> and we'll see what we can do.`}]}}},ia={class:"bg-white"},la={class:"max-w-7xl mx-auto px-4 sm:px-6 lg:px-8"},ca={class:"space-y-10 lg:space-y-0 lg:grid lg:grid-cols-2 lg:gap-x-8 lg:gap-y-10"},da={class:"font-semibold text-gray-900"},ha=["innerHTML"];function ua(u,d,r,a,o,l){const h=m("PageTitle");return e(),s(p,null,[c(h,{title:"Frequently Asked Questions"}),t("div",ia,[t("div",la,[t("dl",ca,[(e(!0),s(p,null,y(o.faqs,n=>(e(),s("div",{key:n.question},[t("dt",da,i(n.question),1),t("dd",{class:"mt-3 text-gray-500",innerHTML:n.answer},null,8,ha)]))),128))])])])],64)}var pa=g(ra,[["render",ua]]);const ma={inject:["konstantRouteContact","konstantEmail"],components:{PageTitle:w},data(){return{faqs:[{question:"App name",answer:"Lyrcs"},{question:"Tagline",answer:"The Best Kept Secret of Every Songwriter"},{question:"Description",answer:"Lyrcs is an application that assists in lyric writing by providing rhymes, syllable counting and more. Lyrcs is a native macOS app and works entirely offline."},{question:"System requirements",answer:"macOS 12.0.0"},{question:"Contact information",answer:`Email <a href="mailto:${this.konstantEmail}" class='underline'>${this.konstantEmail}</a> or see the <a href="#${this.konstantRouteContact}" class='underline'>contact page</a>`},{question:"App Icon, Screenshots",answer:"Feel free to right click and save any of the images on the site. The logo is located at the top of the page."}]}}},ga={class:"bg-white"},_a={class:"max-w-7xl mx-auto px-4 divide-y divide-gray-200 sm:px-6 lg:px-8"},ya={class:"divide-y divide-gray-200"},xa={class:"text-base font-medium text-gray-900 md:col-span-5"},fa={class:"mt-2 md:mt-0 md:col-span-7"},va=["innerHTML"];function ba(u,d,r,a,o,l){const h=m("PageTitle");return e(),s(p,null,[c(h,{title:"Press Kit"}),t("div",ga,[t("div",_a,[t("dl",ya,[(e(!0),s(p,null,y(o.faqs,n=>(e(),s("div",{key:n.question,class:"pt-6 pb-8 md:grid md:grid-cols-12 md:gap-8"},[t("dt",xa,i(n.question),1),t("dd",fa,[t("p",{class:"text-base text-gray-500",innerHTML:n.answer},null,8,va)])]))),128))])])])],64)}var $a=g(ma,[["render",ba]]);const K="/savings",z="/competitors",O="/keyboard-shortcuts",H="/contact",W="/faq",E="/privacy",U="/press-kit",wa=[{path:"/",component:po,meta:{title:"Home"}},{path:K,component:Vo,meta:{title:"Savings"}},{path:E,component:ln,meta:{title:"Privacy"}},{path:z,component:kn,meta:{title:"Competitors"}},{path:"/:pathMatch(.*)*",component:On,meta:{title:"Page Not Found"}},{path:H,component:Qn,meta:{title:"Contact Us"}},{path:O,component:aa,meta:{title:"Keyboard Shortcuts"}},{path:W,component:pa,meta:{title:"FAQ"}},{path:U,component:$a,meta:{title:"Press Kit"}}],ka=ut({history:pt(),routes:wa,scrollBehavior(u,d,r){return r||{top:0}}}),_=mt(be);_.use(ka);_.provide("konstantStatsMinutes","37:23");_.provide("konstantStatsMemory","210 MB");_.provide("konstantStatsRelationships","1+");_.provide("konstantEmail","support@lyrcs.app");_.provide("konstantAppStoreURL","https://apps.apple.com/app/apple-store/id1599888045?pt=117831961&ct=website&mt=8");_.provide("konstantNavigationSavings",K);_.provide("konstantNavigationCompetitors",z);_.provide("konstantRouteContact",H);_.provide("konstantContactForm","https://share-eu1.hsforms.com/15bmb0uVjTHqMEOoRBfhkygf8pdx");_.provide("konstantRouteKeyboardShortcuts",O);_.provide("konstantRouteFAQ",W);_.provide("konstantRoutePrivacy",E);_.provide("konstantRoutePressKit",U);_.mount("#app");

diff --git a/index.html b/index.html
@@ -49,7 +49,7 @@
   <!-- Global site tag (gtag.js) - Google Analytics: End -->
 
   <title>Lyrcs</title>
-  <script type="module" crossorigin src="/assets/index.dd5b58f3.js"></script>
+  <script type="module" crossorigin src="/assets/index.e5c1f528.js"></script>
   <link rel="modulepreload" href="/assets/vendor.ebcf2ea9.js">
   <link rel="stylesheet" href="/assets/index.e41a4b1b.css">
 </head>
